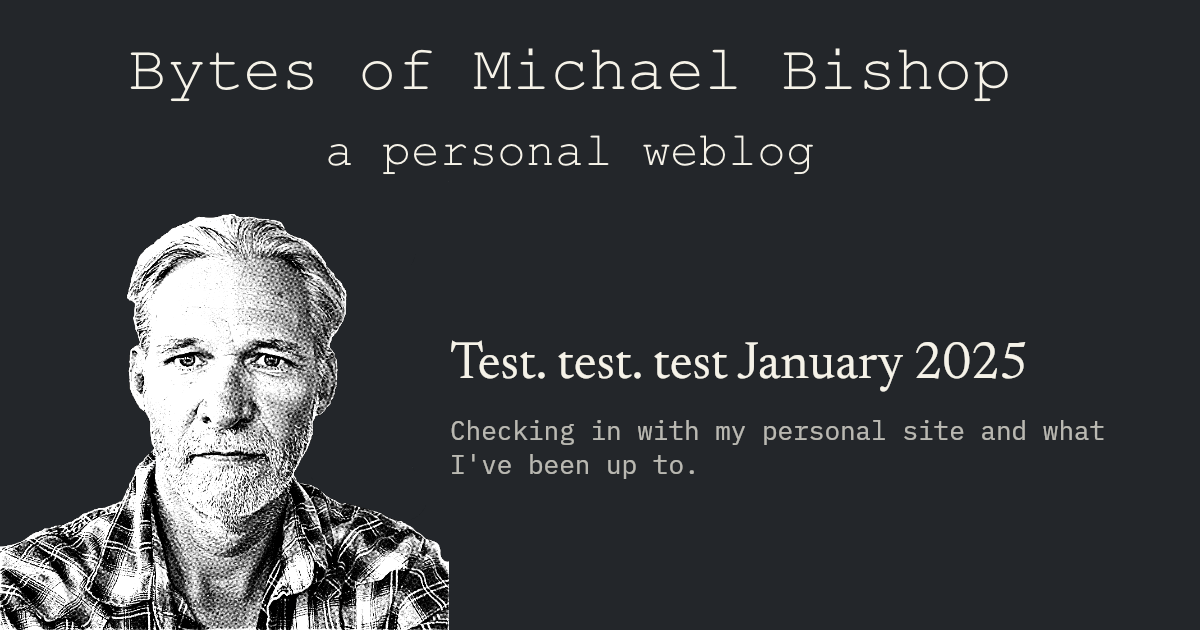
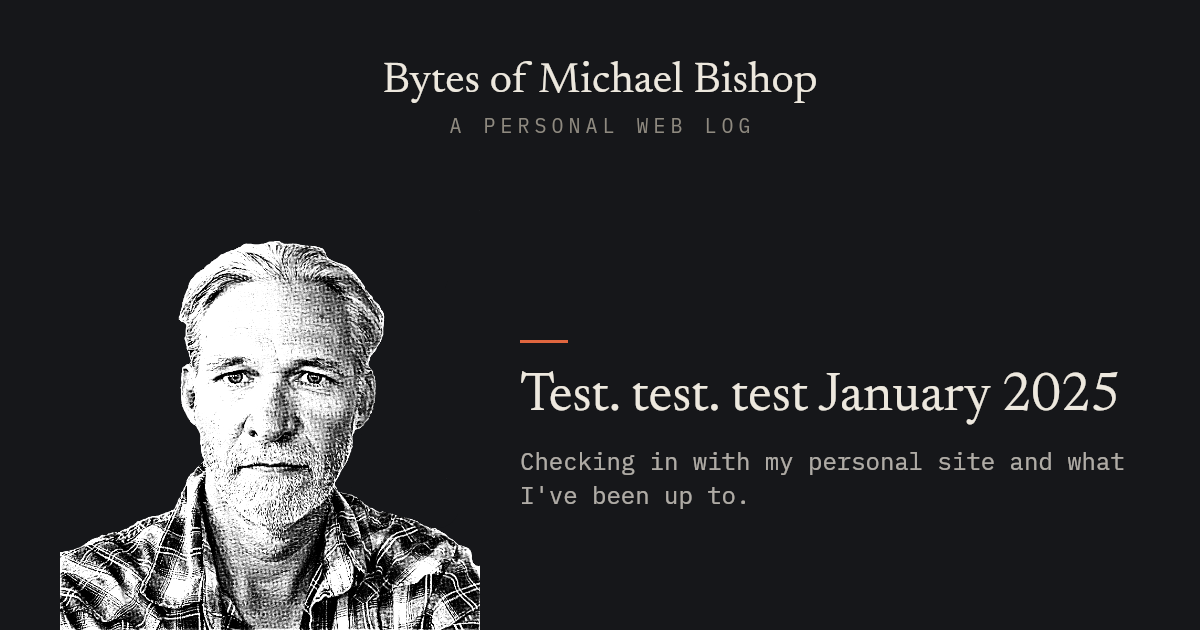
Draw the OG card from scratch in the site's style
The card was composited over public/assets/img/og-image.png, a baked PNG
carrying the masthead and portrait, so the reskin could only ever reach the
two lines of text drawn on top. Everything else — Courier masthead, old
palette — was pixels.

Now drawn entirely in canvas, so it tracks the design instead of an exported
image:

- Ink ground (#16171A) and text colours from darkmode.css.
- Masthead in Newsreader; tagline in letterspaced uppercase IBM Plex Mono,
  the same treatment .tagline gets on the site (canvas has no tracking
  control, so letter spacing is drawn per character).
- A vermilion kicker rule above the title — the single accent, used the way
  the entry kickers use it.
- Title in Newsreader, excerpt in IBM Plex Mono.

The portrait is the only asset left, and it already had an alpha channel, so
it composites onto the ink ground without the white box that cropping the old
card would have produced. og-image.png is now unreferenced.

Staying dark in both colour schemes, by choice.

diff --git a/scripts/generate-og-images.js b/scripts/generate-og-images.js
@@ -16,41 +16,44 @@ import matter from 'gray-matter';
 
 // Configuration
 const CONFIG = {
-    baseImage: 'public/assets/img/og-image.png',
+    // The card is drawn from scratch — no baked base image — so it tracks the
+    // site's design rather than an exported PNG. Dark in both colour schemes
+    // by choice: social feeds are mostly dark, and it keeps the halftone
+    // portrait reading as ink on paper inverted.
+    portrait: 'public/assets/img/favicon.png',
     outputDir: 'public/assets/img/og',
     articlesDir: 'content/articles',
-    // Fingerprints of what each card was drawn from. Kept out of public/,
-    // which is passthrough-copied to the site root.
     manifest: 'scripts/.og-manifest.json',
     siteUrl: 'https://michaelbishop.me',
-    
-    // Text styling
-    textColor: '#F5F2E8',
-    fontSizes: {
-        short: 60,      // < 20 chars
-        medium: 52,     // 20-35 chars
-        long: 45,       // 35-50 chars
-        veryLong: 38    // > 50 chars
-    },
-    // The site's own faces, registered below from public/assets/fonts/ —
-    // Newsreader carries the title, IBM Plex Mono the excerpt, same pairing
-    // as the pages themselves.
+
+    width: 1200,
+    height: 630,
+
+    // Ink palette, matching public/assets/css/darkmode.css
+    ground: '#16171A',
+    textColor: '#EDE8DE',
+    mutedColor: '#8F8A80',
+    accentColor: '#E0663F',
+    ruleColor: '#3A3D42',
+
+    fontSizes: { short: 60, medium: 54, long: 46, veryLong: 40 },
     fontFamily: 'Newsreader',
     excerptFontFamily: 'IBM Plex Mono',
 
-    // Excerpt, drawn under the title
-    excerptColor: 'rgba(245, 242, 232, 0.72)',
-    excerptFontSize: 26,
+    mastheadSize: 44,
+    taglineSize: 20,
+    taglineTracking: 5,
+
+    excerptColor: 'rgba(237, 232, 222, 0.72)',
+    excerptFontSize: 24,
     excerptLineHeight: 34,
-    excerptGap: 24,
+    excerptGap: 22,
     excerptMaxLines: 3,
-    
-    // Text position (from left edge, from bottom)
-    textX: 450,
-    textFromBottom: 150,
-    
-    // Max text width for wrapping
-    maxTextWidth: 700,
+
+    portraitSize: 420,
+    textX: 520,
+    textFromBottom: 120,
+    maxTextWidth: 620,
     lineHeight: 70,
 };
 
@@ -107,31 +110,62 @@ function wrapText(ctx, text, maxWidth) {
 /**
  * Generate OG image for a single article
  */
-async function generateOgImage(title, excerpt, outputPath, baseImageBuffer) {
-    // Load base image
-    const baseImage = await loadImage(baseImageBuffer);
-    
-    // Create canvas matching image dimensions
-    const canvas = createCanvas(baseImage.width, baseImage.height);
+/** Draw text with manual letter spacing — canvas has no tracking control. */
+function fillTracked(ctx, text, x, y, tracking) {
+    let cursor = x;
+    for (const ch of text) {
+        ctx.fillText(ch, cursor, y);
+        cursor += ctx.measureText(ch).width + tracking;
+    }
+    return cursor - tracking - x;
+}
+
+function measureTracked(ctx, text, tracking) {
+    let w = 0;
+    for (const ch of text) w += ctx.measureText(ch).width + tracking;
+    return w - tracking;
+}
+
+async function generateOgImage(title, excerpt, outputPath, portraitImage) {
+    const canvas = createCanvas(CONFIG.width, CONFIG.height);
     const ctx = canvas.getContext('2d');
-    
-    // Draw base image
-    ctx.drawImage(baseImage, 0, 0);
-    
-    // Calculate dynamic font size based on title length
+
+    // Ground
+    ctx.fillStyle = CONFIG.ground;
+    ctx.fillRect(0, 0, CONFIG.width, CONFIG.height);
+
+    // Masthead, centred across the top
+    ctx.textBaseline = 'alphabetic';
+    ctx.fillStyle = CONFIG.textColor;
+    ctx.font = `${CONFIG.mastheadSize}px "${CONFIG.fontFamily}"`;
+    const name = 'Bytes of Michael Bishop';
+    ctx.fillText(name, (CONFIG.width - ctx.measureText(name).width) / 2, 92);
+
+    ctx.fillStyle = CONFIG.mutedColor;
+    ctx.font = `${CONFIG.taglineSize}px "${CONFIG.excerptFontFamily}"`;
+    const tagline = 'a personal web log'.toUpperCase();
+    const taglineW = measureTracked(ctx, tagline, CONFIG.taglineTracking);
+    fillTracked(ctx, tagline, (CONFIG.width - taglineW) / 2, 132, CONFIG.taglineTracking);
+
+    // Portrait, bleeding off the bottom-left
+    if (portraitImage) {
+        ctx.drawImage(
+            portraitImage,
+            60,
+            CONFIG.height - CONFIG.portraitSize,
+            CONFIG.portraitSize,
+            CONFIG.portraitSize
+        );
+    }
+
+    // Title
     const fontSize = calculateFontSize(title);
     const lineHeight = fontSize + 10;
-    
-    // Configure text
     ctx.fillStyle = CONFIG.textColor;
     ctx.font = `${fontSize}px "${CONFIG.fontFamily}"`;
     ctx.textBaseline = 'bottom';
-    
-    // Wrap text if needed
     const lines = wrapText(ctx, title, CONFIG.maxTextWidth);
 
-    // Measure the excerpt in its own font before laying anything out, so the
-    // title and excerpt can be bottom-anchored as one block.
     let excerptLines = [];
     if (excerpt) {
         ctx.font = `${CONFIG.excerptFontSize}px "${CONFIG.excerptFontFamily}"`;
@@ -147,31 +181,28 @@ async function generateOgImage(title, excerpt, outputPath, baseImageBuffer) {
     const excerptBlock = excerptLines.length
         ? CONFIG.excerptGap + excerptLines.length * CONFIG.excerptLineHeight
         : 0;
+    const blockBottom = CONFIG.height - CONFIG.textFromBottom;
+    const textY = blockBottom - excerptBlock - (lines.length - 1) * lineHeight;
 
-    // Bottom-anchor the whole block: the last line sits textFromBottom up
-    // from the bottom edge, and the title rises to make room for the excerpt.
-    const blockBottom = baseImage.height - CONFIG.textFromBottom;
-    let textY = blockBottom - excerptBlock - (lines.length - 1) * lineHeight;
+    // Vermilion kicker rule above the title — the site's one accent
+    ctx.fillStyle = CONFIG.accentColor;
+    ctx.fillRect(CONFIG.textX, textY - fontSize - 26, 48, 3);
 
-    // Draw the title
+    ctx.fillStyle = CONFIG.textColor;
     for (let i = 0; i < lines.length; i++) {
         ctx.fillText(lines[i], CONFIG.textX, textY + (i * lineHeight));
     }
 
-    // Draw the excerpt
     if (excerptLines.length) {
         ctx.fillStyle = CONFIG.excerptColor;
         ctx.font = `${CONFIG.excerptFontSize}px "${CONFIG.excerptFontFamily}"`;
-        const excerptTop = textY + (lines.length - 1) * lineHeight + CONFIG.excerptGap;
+        const top = textY + (lines.length - 1) * lineHeight + CONFIG.excerptGap;
         for (let i = 0; i < excerptLines.length; i++) {
-            ctx.fillText(excerptLines[i], CONFIG.textX, excerptTop + ((i + 1) * CONFIG.excerptLineHeight));
+            ctx.fillText(excerptLines[i], CONFIG.textX, top + ((i + 1) * CONFIG.excerptLineHeight));
         }
     }
-    
-    // Save image
-    const buffer = canvas.toBuffer('image/png');
-    await writeFile(outputPath, buffer);
-    
+
+    await writeFile(outputPath, canvas.toBuffer('image/png'));
     console.log(`✓ Generated: ${outputPath}`);
 }
 
@@ -202,14 +233,13 @@ export async function generateOgImages({ force = forceFlag } = {}) {
         await mkdir(CONFIG.outputDir, { recursive: true });
     }
     
-    // Load base image once
-    if (!existsSync(CONFIG.baseImage)) {
-        console.error(`❌ Base image not found: ${CONFIG.baseImage}`);
-        console.error('   Please add your 1200x630 base image.');
-        process.exit(1);
+    // The portrait is the only external asset; everything else is drawn.
+    let portraitImage = null;
+    if (existsSync(CONFIG.portrait)) {
+        portraitImage = await loadImage(await readFile(CONFIG.portrait));
+    } else {
+        console.log(`⚠ Portrait not found (${CONFIG.portrait}); cards will be type only.`);
     }
-    
-    const baseImageBuffer = await readFile(CONFIG.baseImage);
 
     // Previously drawn fingerprints, slug → hash of (title, excerpt).
     let manifest = {};
@@ -270,7 +300,7 @@ export async function generateOgImages({ force = forceFlag } = {}) {
         }
 
         try {
-            await generateOgImage(frontmatter.title, excerpt, outputPath, baseImageBuffer);
+            await generateOgImage(frontmatter.title, excerpt, outputPath, portraitImage);
             manifest[slug] = fingerprint;
             generated++;
         } catch (error) {
